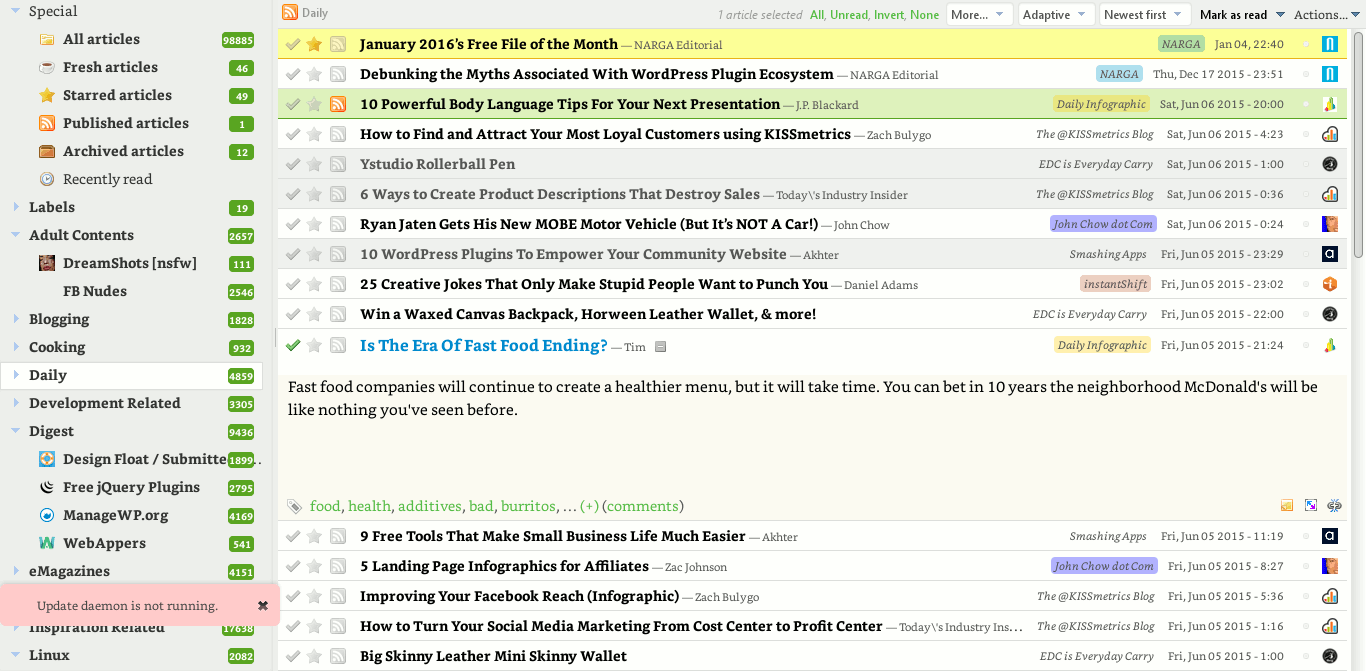
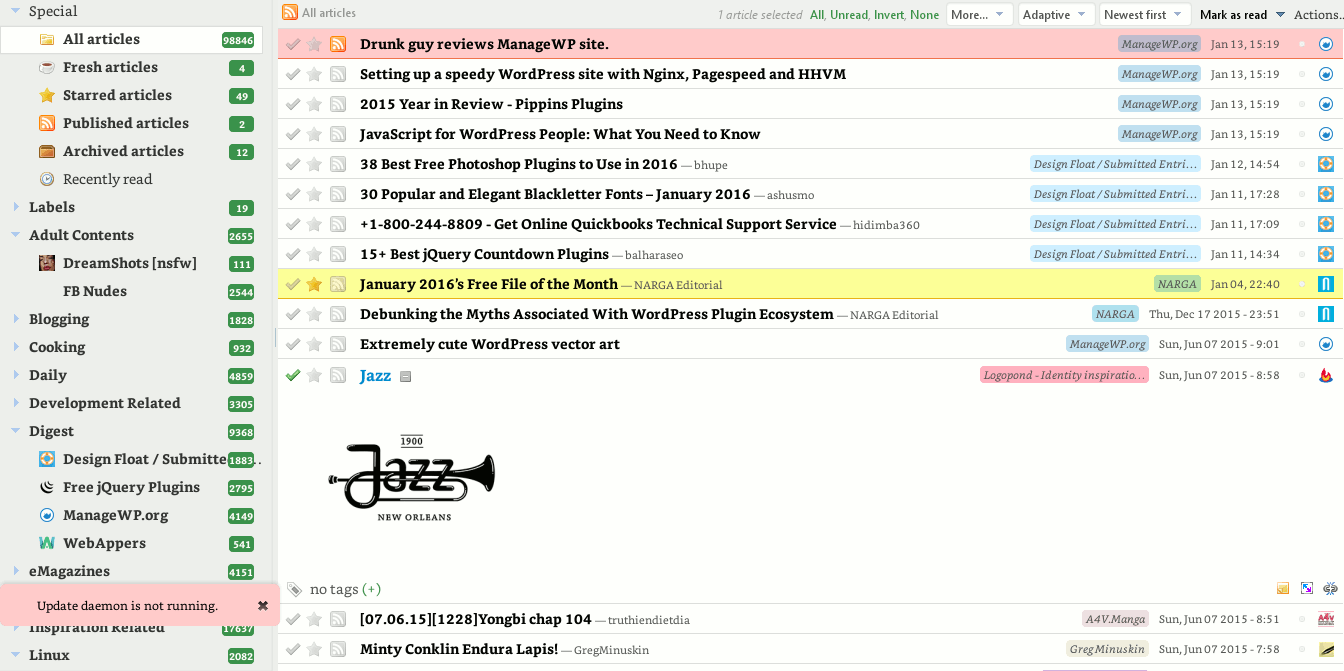
Update newest screenshot, linked images to raw github files instead encoded base64 data, optimize feed item's coloring: selected, marked, published

diff --git a/elegant.css b/elegant.css
@@ -229,27 +229,32 @@ div.cdmContent, div.postContent {
     background:#FBFAF3;
 }
 
-.cdm.expandable.Selected:not(.active),
-.hl.Selected {
-	z-index: 2;
-
-    border-color: #41924b;
-	background: #AFEAAA;
-
+.cdm.expandable:not(.active),
+.hl {
+    border-width: 0px 0px 1px 0px;
 }
 
-.cdm.expandable.marked:not(.active),
+.hl.Selected, .hl.marked, .hl.published {
+    border-width: 1px 0px 1px 0px;
+}
+
+.cdm.expandable:not(.active),
+.hl.Selected {
+    border-color: #41924b;
+	background: #AFEAAA;
+}
+
+.cdm.expandable:not(.active),
 .hl.marked {
-	z-index: 2;
 	border-color: #E9B31B;
 	background: #FFFF99;
 }
 
-.cdm.expandable.published:not(.active),
+.cdm.expandable:not(.active),
 .hl.published {
-	z-index: 2;
 	border-color: #EF7351;
-	background-color: #ffcccc;}
+	background-color: #ffcccc;
+}
 
 /* Label coloured */
 #feeds-holder img.feedIcon,
@@ -276,6 +281,10 @@ div.cdmContent, div.postContent {
 	text-align: center;
 	font-size: 10px;
 	line-height: 1;
+}
+
+div.postReply div.postTitle {
+    white-space:normal;
 }
 
 /* Notification */
@@ -345,10 +354,13 @@ div.cdmContent, div.postContent {
 }
 
 #notify img[src*='images/indicator_white.gif'] {
[1 lines of base64/hex data omitted]
+	background: url(https://raw.githubusercontent.com/Narga/tt-rss-narga-theme/master/images/spinner.gif) no-repeat;
 }
 
 #notify img[src*='images/cross.png'] {
[1 lines of base64/hex data omitted]
+	background: url('https://raw.githubusercontent.com/Narga/tt-rss-narga-theme/master/images/close.png') no-repeat;
+}
+#notify img[src*='images/alert.png'] {
+	background: url(https://raw.githubusercontent.com/Narga/tt-rss-narga-theme/master/images/ban.png) no-repeat;
 }
 

diff --git a/README.md b/README.md
@@ -6,10 +6,9 @@ NARGA's Elementary Reader: A simple designed Tiny Tiny RSS theme that is used to
 
 The color scheme of this theme based on [Material Design Color Pallete](http://zavoloklom.github.io/material-design-color-palette/colors.html)
 
-|   |  |
-| ------------- | ------------- |
-| #41924b  | #028482  |
-
+| ------------- | ------------- | --------- | ---------- |
+| #41924b       | #028482       | #ff0000   | #ffcccc    |
+| ------------- | ------------- | --------- | ---------- |
 ## Instalation
 From TT-RSS root directory
 ```bash
@@ -24,7 +23,7 @@ Switch to `elegant.css` in Preferences
 - [x] loading proccessing
 - [x] styling notify
 - [x] coloring item's attributes
-- [x] images, font include in CSS file
+- [ ] ~~images, font include in CSS file~~ (on hold)
 - [ ] optimize for better viewing on desktop and handheld device.
 - [ ] ~~responsive layout~~ (limited technology)
 
